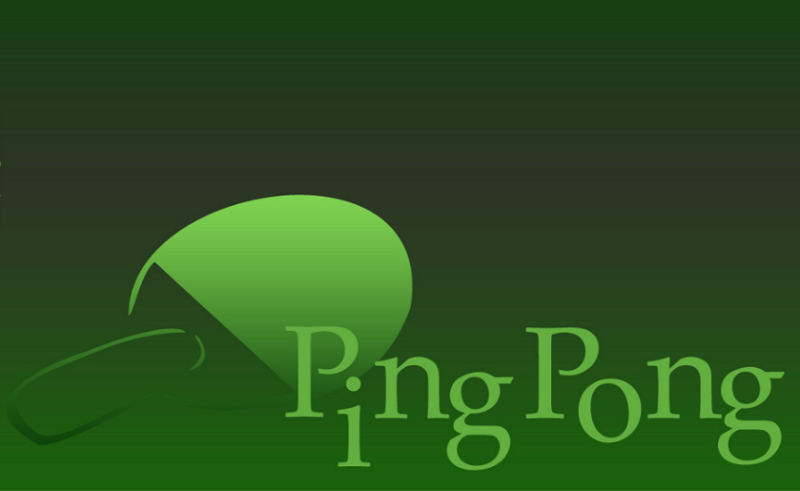
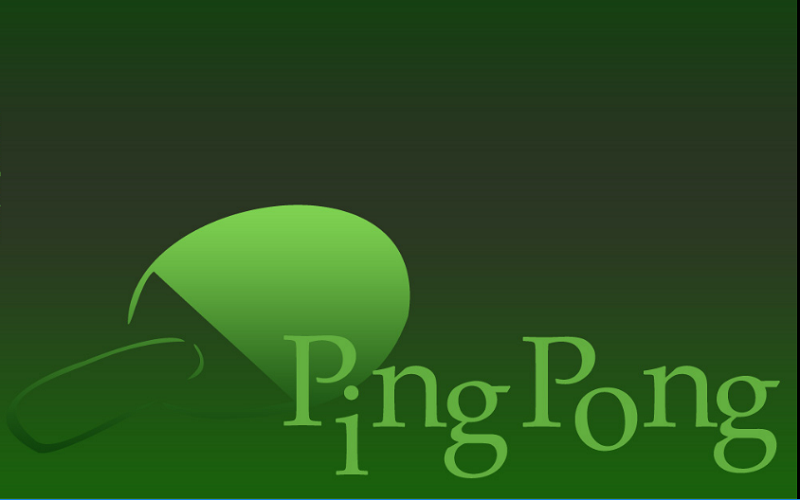
menu screen

diff --git a/ping/pong/screen/menu_screen.py b/ping/pong/screen/menu_screen.py
@@ -26,9 +26,14 @@ class MenuScreen:
         menu_exit = Menu(self.surface, "Exit", 35, 580, 230)
 
         self.menus = [menu_text, menu_start, menu_setting, menu_exit]
+        self.sounds = {
+            "theme": pygame.mixer.Sound("../media/sound/menu-screen-theme.wav")
+        }
+        self.sounds["theme"].set_volume(0.5)
 
     def start_screen(self):
         clock = pygame.time.Clock()
+        self.sounds["theme"].play(-1)
         while True:
             if not self.get_input():
                 break
@@ -106,9 +111,10 @@ class MenuScreen:
                     i = 0;
                     for menu in self.menus:
                         if menu._IS_SELECTED == 1 and i == 1:
+                            self.sounds["theme"].stop()
                             game_screen = ScreenGame([800, 500], self.surface)
                             game_screen.init_screen()
                             game_screen.play()
-                            #return False
+                        if menu._IS_SELECTED == 1 and i == 3: return False
                         i += 1;
         return True

diff --git a/ping/pong/screen/game_screen.py b/ping/pong/screen/game_screen.py
@@ -24,7 +24,7 @@ class ScreenGame(BaseScreen):
     def init_screen(self):
         self.sounds = {
             "ping" : pygame.mixer.Sound("../media/sound/ping.wav"),
-            "click" : pygame.mixer.Sound("../media/sound/paddle-hit.mp3"),
+            "click" : pygame.mixer.Sound("../media/sound/paddle-hit.wav"),
             "da-ding" : pygame.mixer.Sound("../media/sound/da-ding.wav")
         }
         self.sounds["ping"].set_volume(0.05)

diff --git a/ping/pong/__init__.py b/ping/pong/__init__.py
@@ -14,7 +14,7 @@ class Pong:
         pygame.display.init()
         pygame.font.init()
         pygame.mixer.init(buffer=0)
-        self.screen_size = [800,491]
+        self.screen_size = [800,500]
         self.surface = pygame.display.set_mode(self.screen_size)
 
         lifeimg = pygame.image.load("../media/image/icon.png").convert_alpha()
